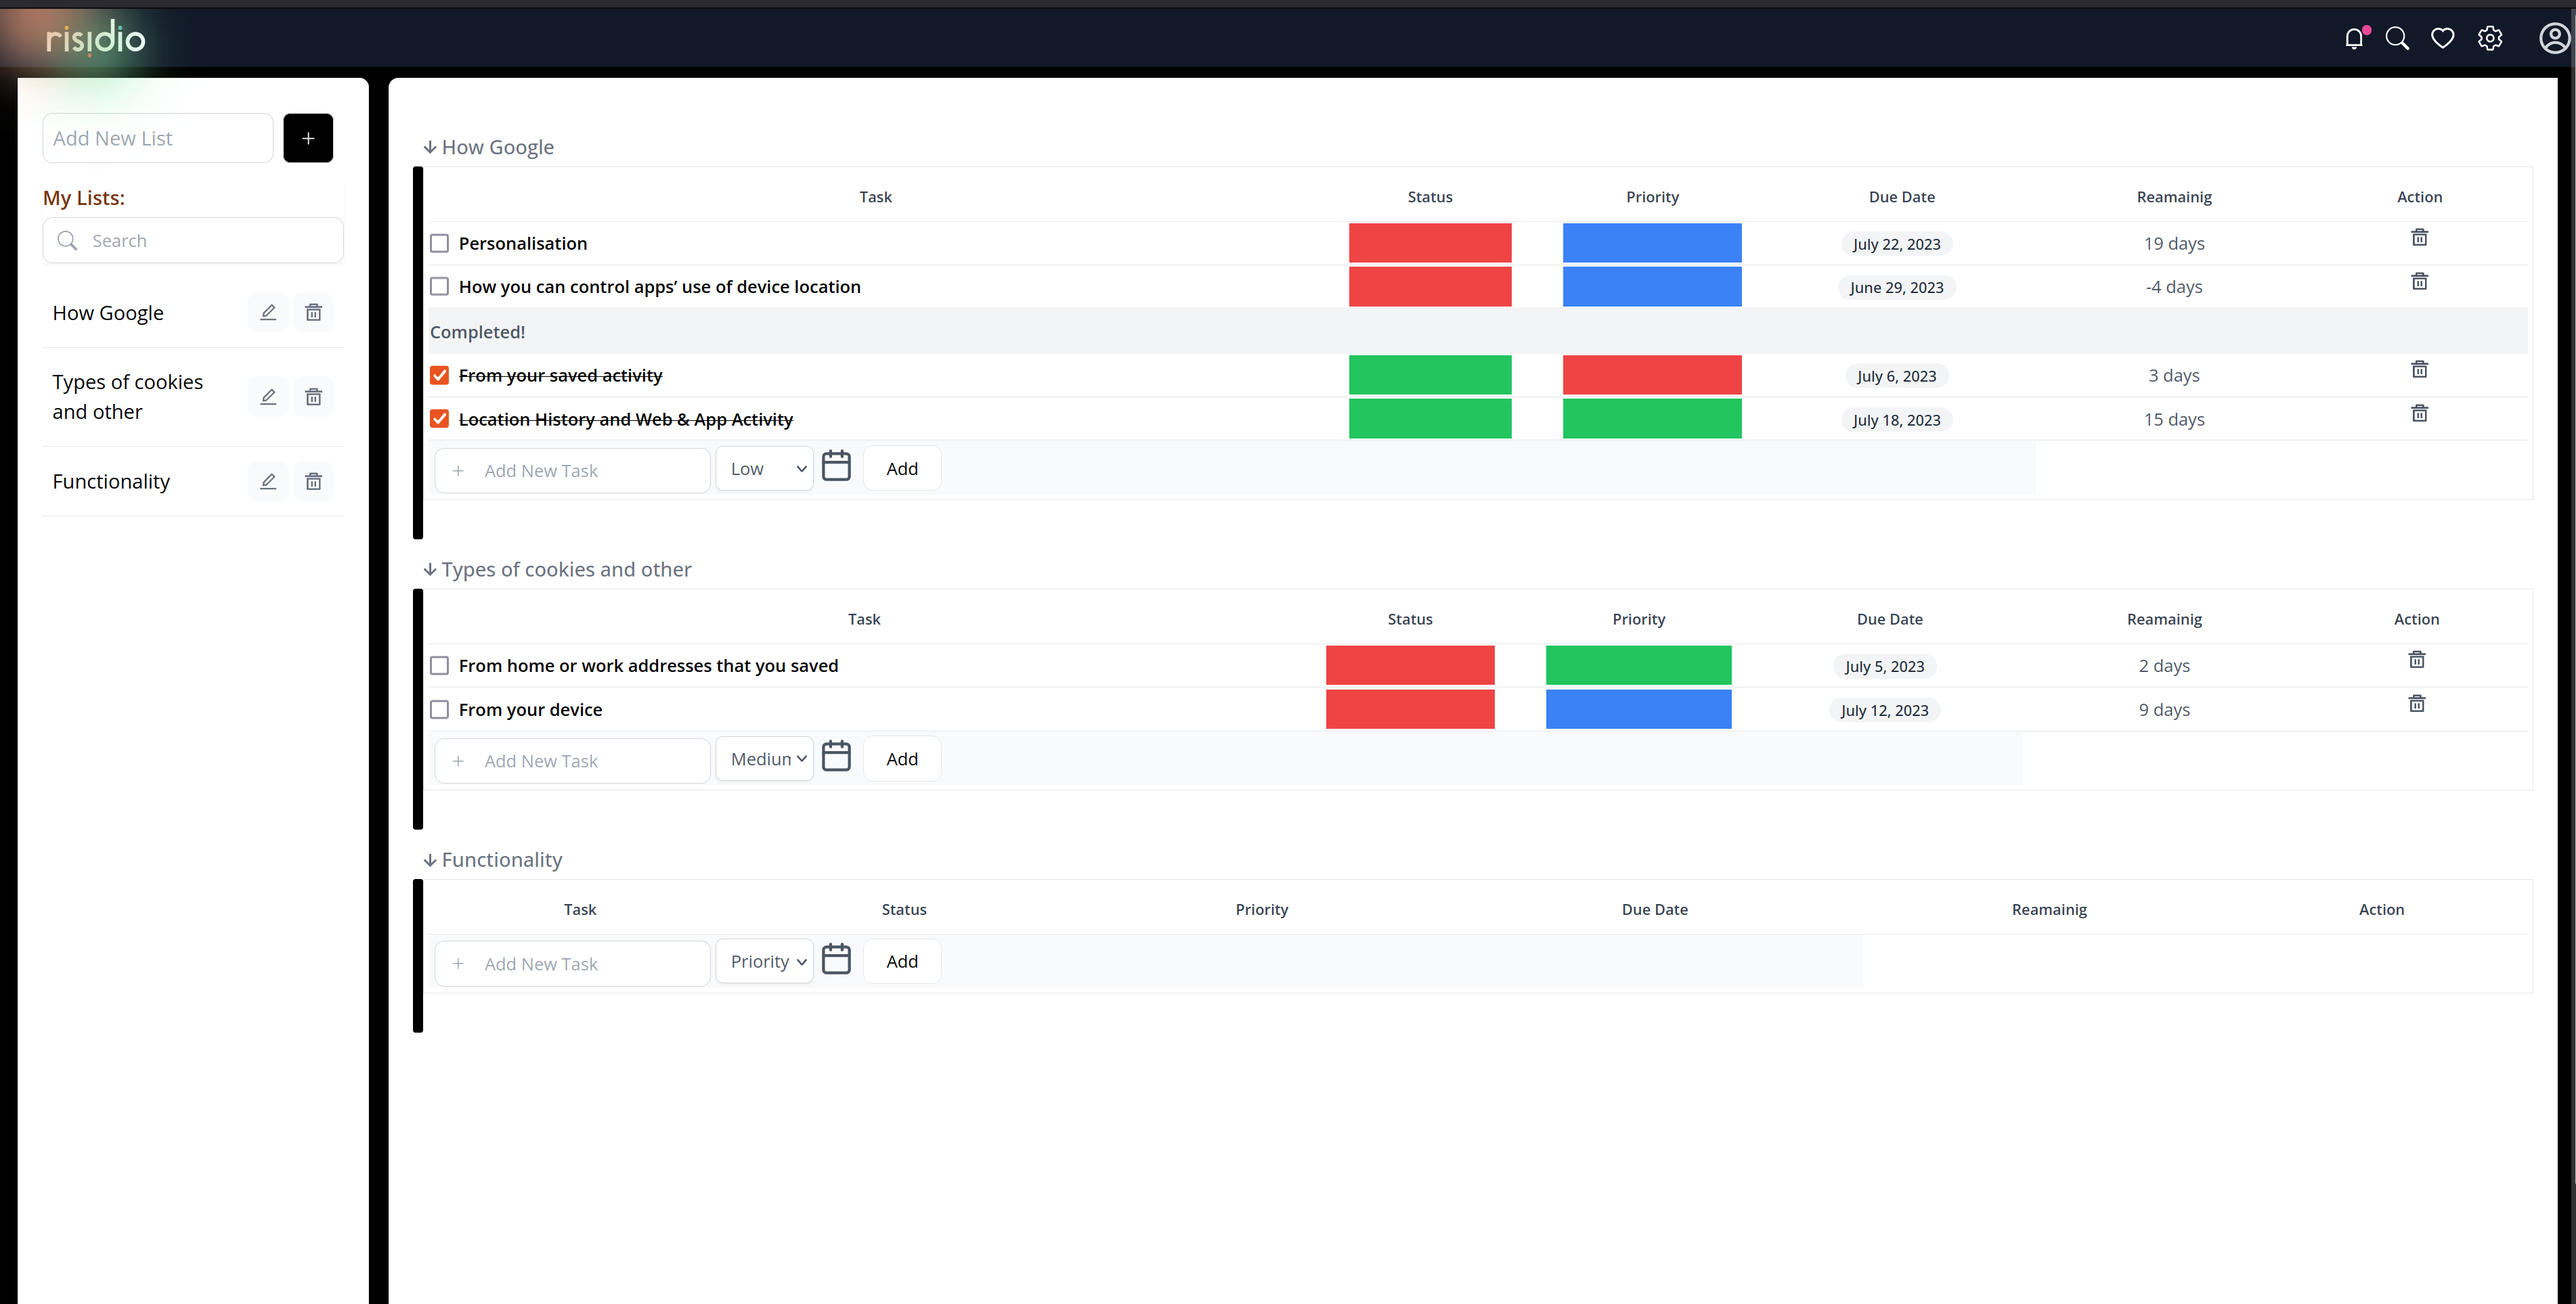
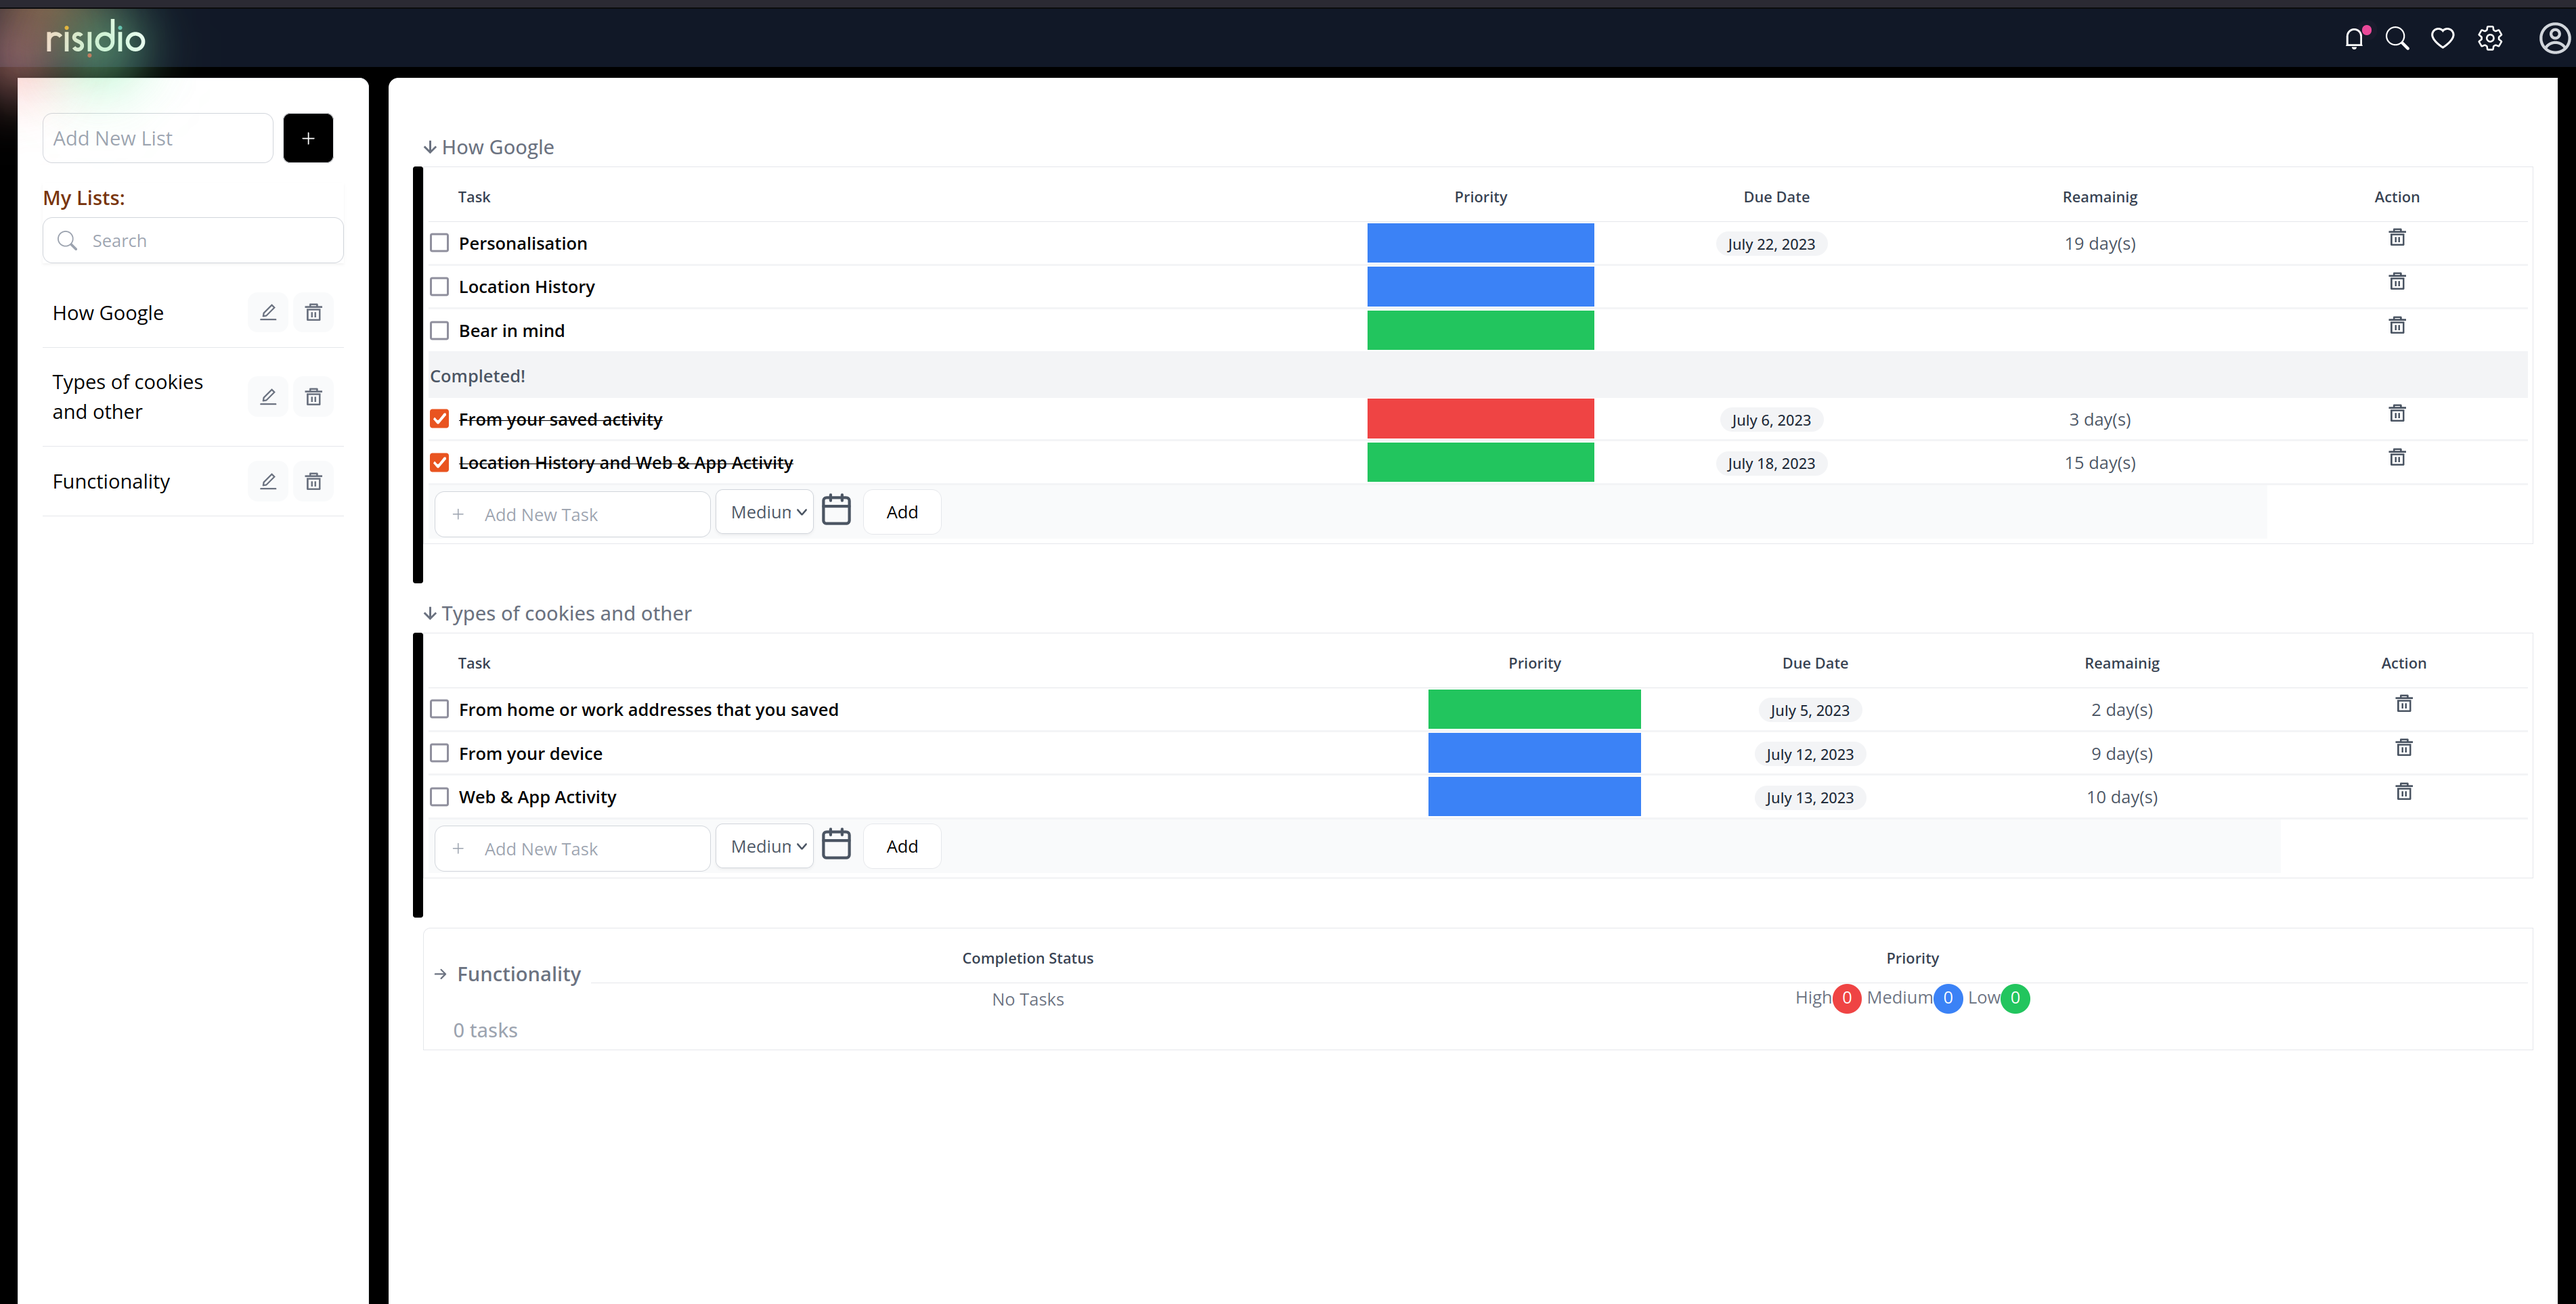
remove some extra code

diff --git a/src/components/lists/ListTasks.tsx b/src/components/lists/ListTasks.tsx
@@ -4,13 +4,9 @@ import Checkbox from "../ul/Checkbox";
 import { useSelector } from "react-redux";
 import { RootState, selectTasksForList } from "../../store/todo/todo.selectors";
 import { useDispatch } from "react-redux";
-import { removeTaskFromList, toggleTaskCompletion, updateTaskInList } from "../../store/todo/todo.slice";
+import { removeTaskFromList, toggleTaskCompletion } from "../../store/todo/todo.slice";
 import { priorityColors } from "../../data/priorityList";
 import IconDeleteBin5Line from "../../assets/icons/Remove";
-import { useState } from "react";
-import Input from "../ul/Input";
-import { Task } from "../../store/todo/todo.types";
-import useDebounce from "../hooks/useDebounce";
 import { RemainingDays, Time } from "../../libs/timeHelper";
 
 type MainContentProps = {
@@ -27,16 +23,7 @@ const ListTasks: React.FC<MainContentProps> = ({ listId }) => {
                                                     </td>
                                                  </tr>)
                                               : "";
-  const [editItem, setEditItem] = useState("");
-  const [taskTitle, setTaskTitle] = useState("");
   const dispatch = useDispatch();
-
-  useDebounce(() => {
-    setEditItem(""); 
-    let selectedTask = todoTasks.filter(task => task.id === editItem);
-    let updatedItem = {...selectedTask[0], title: taskTitle}
-    dispatch(updateTaskInList({listId: listId!, task: updatedItem}));
- }, 1000, [ taskTitle ]);
 
   const handleCheckboxChange = (taskId: string) => {
        dispatch(toggleTaskCompletion({ listId,  taskId: taskId }));
@@ -45,21 +32,13 @@ const ListTasks: React.FC<MainContentProps> = ({ listId }) => {
   const removeTaskHandler = (taskId: string) => {
     dispatch(removeTaskFromList({ listId,  taskId }));
   }
-
-  const handleEditTask = (task: Task) => {
-    setEditItem(task.id);
-    setTaskTitle(task.title)
-  }
   return (
        <div className="overflow-x-auto">
          <table className="min-w-full divide-y divide-gray-200 text-center">
           <thead className="text-xs text-gray-700">
               <tr>
-                <th scope="col" className="px-6 py-3">
+                <th scope="col" className="px-6 py-3 text-left">
                   Task
-              </th>
-              <th scope="col" className="px-6 py-3">
-                  Status
               </th>
               <th scope="col" className="px-6 py-3">
                   Priority
@@ -79,7 +58,7 @@ const ListTasks: React.FC<MainContentProps> = ({ listId }) => {
            { incompletedTask && incompletedTask.map((task) => 
               <tr key={task.id} className="border-b-2 p-5 border-gray-100">
                   <th className="text-left">
-                      <div className="flex items-center w-full">
+                     <div className="flex items-center w-full">
                      <Checkbox
                            value={task.completion.toString()}
                            label=""
@@ -89,25 +68,11 @@ const ListTasks: React.FC<MainContentProps> = ({ listId }) => {
                            classes="w-4 h-4 text-gray-400 bg-gray-100 border-gray-300 rounded hover:cursor-pointer focus:ring-gray-500 focus:ring-1"
                            labelCalsses=""
                      />
-                    <div className="text-black hover:cursor-pointer w-full ml-2" onClick={() => handleEditTask(task)}>
-                       { editItem === task.id ?  (
-                                <Input 
-                                      type="text"
-                                      value={taskTitle}
-                                      className="block w-full p-2 text-gray-900 border border-gray-200 rounded-lg bg-white text-md"
-                                      onChange={e => setTaskTitle(e.target.value)}
-                                      />
-                                    )
-                          :  task.completion ? <s>{task.title}</s> : task.title
-                      }
+                    <div className="text-black w-full ml-2">
+                       { task.completion ? <s className="font-bold">ccc {task.title}</s> : task.title }
                     </div>
                   </div>
                   </th>
-                   <td>
-                      <div className="flex h-8 px-5">
-                        <div className={`w-2 h-full grow bg-${task.completion ? "green": "red"}-500`}></div>
-                      </div>
-                  </td>
                   <td>
                       <div className="flex h-8 px-5">
                          <div className={`w-2 h-full grow bg-${priorityColors[task.priority]}-500`}></div>
@@ -135,34 +100,20 @@ const ListTasks: React.FC<MainContentProps> = ({ listId }) => {
               <tr key={task.id} className="border-b-2 p-5 border-gray-100">
                   <th className="text-left">
                       <div className="flex items-center w-full">
-                     <Checkbox
-                           value={task.completion.toString()}
-                           label=""
-                           checked={task.completion}
-                           onChange={() => handleCheckboxChange(task.id)}
-                           htmlTag={task.completion.toString()}
-                           classes="w-4 h-4 text-gray-400 bg-gray-100 border-gray-300 rounded hover:cursor-pointer focus:ring-gray-500 focus:ring-1"
-                           labelCalsses=""
-                     />
-                    <div className="text-black hover:cursor-pointer w-full ml-2" onClick={() => handleEditTask(task)}>
-                       { editItem === task.id ?  (
-                                <Input 
-                                      type="text"
-                                      value={taskTitle}
-                                      className="block w-full p-2 text-gray-900 border border-gray-200 rounded-lg bg-white text-md"
-                                      onChange={e => setTaskTitle(e.target.value)}
-                                      />
-                                    )
-                          :  task.completion ? <s>{task.title}</s> : task.title
-                      }
+                      <Checkbox
+                            value={task.completion.toString()}
+                            label=""
+                            checked={task.completion}
+                            onChange={() => handleCheckboxChange(task.id)}
+                            htmlTag={task.completion.toString()}
+                            classes="w-4 h-4 text-gray-400 bg-gray-100 border-gray-300 rounded hover:cursor-pointer focus:ring-gray-500 focus:ring-1"
+                            labelCalsses=""
+                      />
+                    <div className="text-black w-full ml-2">
+                      { task.completion ? <s> {task.title} </s> : task.title }
                     </div>
                   </div>
                   </th>
-                   <td>
-                      <div className="flex h-8 px-5">
-                        <div className={`w-2 h-full grow bg-${task.completion ? "green": "red"}-500`}></div>
-                      </div>
-                  </td>
                   <td>
                       <div className="flex h-8 px-5">
                          <div className={`w-2 h-full grow bg-${priorityColors[task.priority]}-500`}></div>

diff --git a/src/components/tasks/AddTask.tsx b/src/components/tasks/AddTask.tsx
@@ -19,7 +19,7 @@ type AddTaskProps = {
 const AddTask: React.FC<AddTaskProps> = ({listId}) => {
   const dispatch = useDispatch();
   const [ taskTitle, setTaskTitle ] = useState("");  
-  const [selectedOption, setSelectedOption] = useState("");
+  const [selectedOption, setSelectedOption] = useState("medium");
   const handleSelectChange = (value: string) => {
       setSelectedOption(value);
   };
@@ -36,7 +36,7 @@ const AddTask: React.FC<AddTaskProps> = ({listId}) => {
           title: taskTitle,
           id: uuid(),  
           completion: false,
-          priority: selectedOption ? selectedOption : "medium",
+          priority: selectedOption,
           date: selectedDate!
        };
       dispatch(addTaskToList({listId: listId!,task: newTask}));
@@ -70,6 +70,7 @@ const AddTask: React.FC<AddTaskProps> = ({listId}) => {
                    selected={selectedDate}
                    onChange={handleDateChange}
                    dateFormat="dd/MM/yyyy"
+                   minDate={new Date()}
                    customInput={<IconCalendar/>}
                  />
                  <p className="text-black ml-2">

diff --git a/src/libs/timeHelper.tsx b/src/libs/timeHelper.tsx
@@ -28,7 +28,7 @@ export const RemainingDays: React.FC<TimeProps> = ({ date }) => {
 
   const remainingDays = calculateRemainingDays(date);
 
-  return <> { remainingDays ? `${remainingDays} days` : "" }</>;
+  return <> { remainingDays ? `${remainingDays} day(s)` : "" }</>;
 };
 
 

diff --git a/src/data/priorityList.js b/src/data/priorityList.js
@@ -1,5 +1,4 @@
 export const priorityList = [
-    { value: "", label: "Priority" },
     { value: "low", label: "Low" },
     { value: "medium", label: "Medium" },
     { value: "high", label: "High" },

diff --git a/src/assets/styles/global.css b/src/assets/styles/global.css
@@ -6,7 +6,6 @@ body {
    @apply font-sans;
 }
 
-/* max-w-7xl */
 .pageContainer {
     @apply flex flex-grow bg-black;
   }  
@@ -19,4 +18,3 @@ body {
       animation-delay: 4s;
     }
   }
-  
